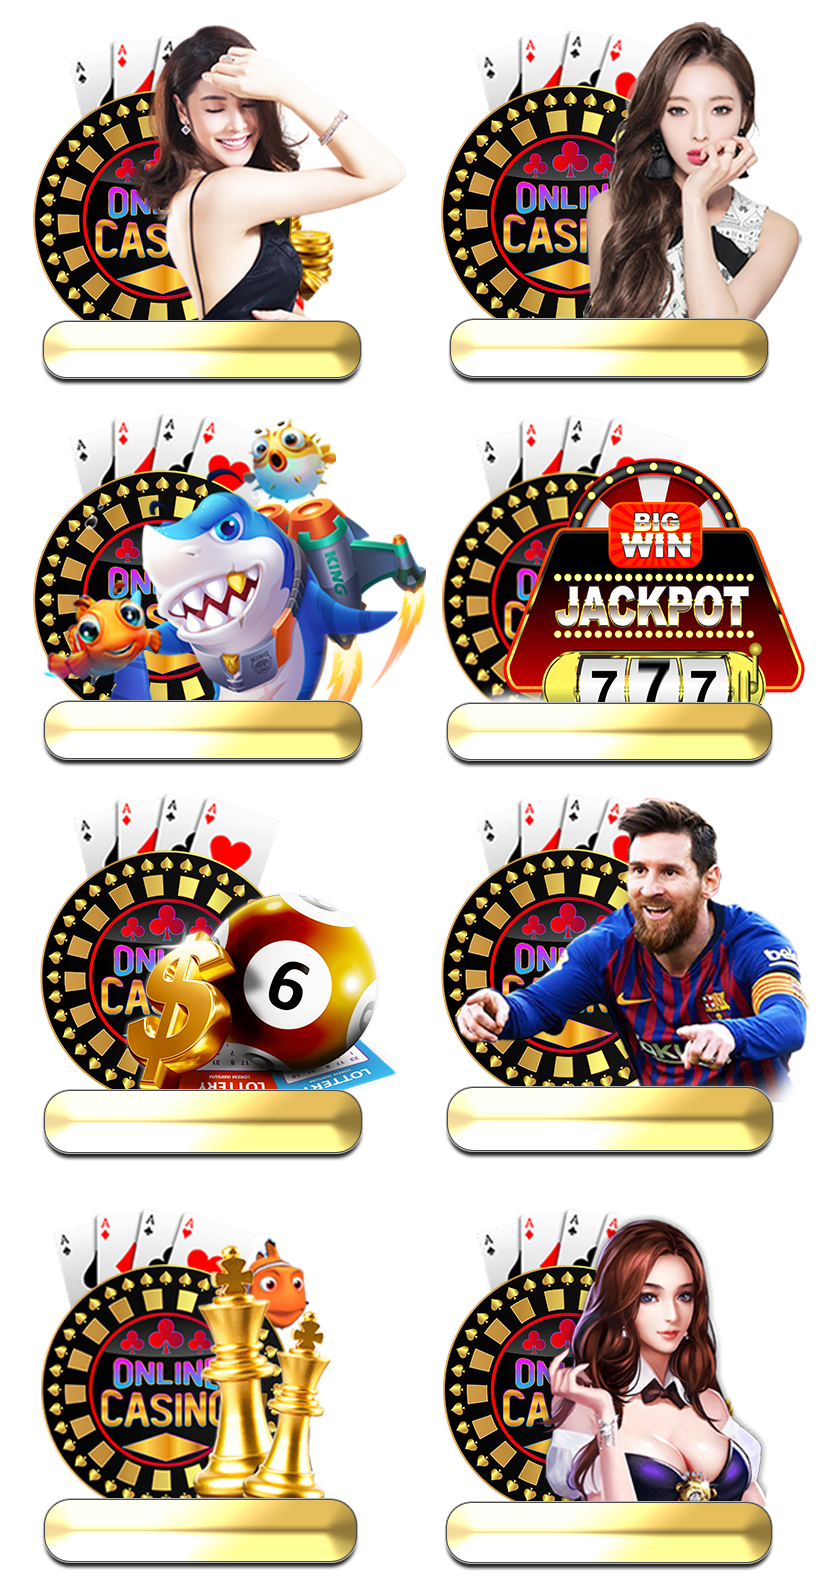
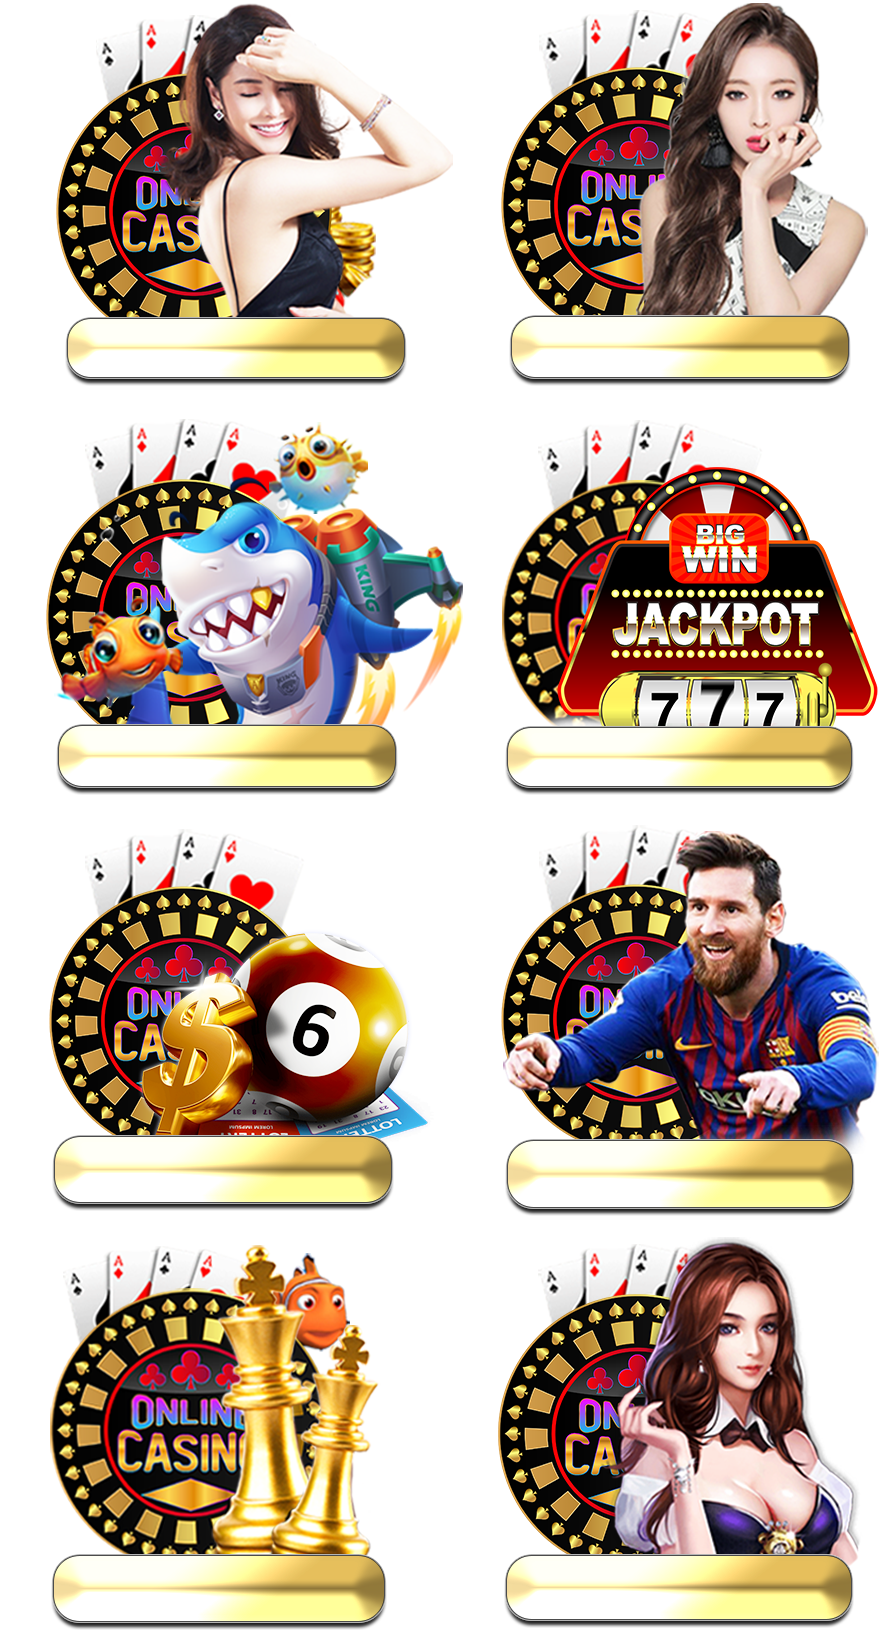
6

diff --git a/scss/main.scss b/scss/main.scss
@@ -263,19 +263,45 @@ html {
             }
 
             .right {
-                width: 70vw;
-                height: 120vw;
+                width: 72vw;
+                height: 102vw;
                 float: right;
-                background: #000;
                 overflow: scroll;
                 display: flex;
                 flex-wrap: wrap;
+                position: relative;
+
+                .right-img {
+                    width: 70vw;
+                    height: 134vw;
+                    background: url(../img/main.png) no-repeat;
+                    background-size: 100%;
+                    position: absolute;
+                    margin-left: 2vw;
+                }
 
                 .right-box {
                     width: 33vw;
-                    height: 38vw;
-                    background: #c66110;
+                    height: 31vw;
                     margin: 5px 0 0 5px;
+
+                    P {
+                        width: 33vw;
+                        height: 5vw;
+                        font-size: 3vw;
+                        color: #330077;
+                        font-weight: bold;
+                        text-align: center;
+                        line-height: 52vw;
+                        margin-left: 2vw;
+                        position: absolute;
+
+                        @media(max-width: 320px) {
+                            font-size: 3vw;
+                            transform: scale(0.8);
+                            line-height: 62vw;
+                        }
+                    }
                 }
             }
         }

diff --git a/index.html b/index.html
@@ -71,14 +71,31 @@
             </ul>
         </div>
         <div class="right">
-           <div class="right-box"></div>
-           <div class="right-box"></div>
-           <div class="right-box"></div>
-           <div class="right-box"></div>
-           <div class="right-box"></div>
-           <div class="right-box"></div>
-           <div class="right-box"></div>
-           <div class="right-box"></div>
+           <div class="right-img"></div>
+           <div class="right-box">
+               <P>BB真人娛樂</P>
+           </div>
+           <div class="right-box">
+            <P>AA真人娛樂</P>
+           </div>
+           <div class="right-box">
+            <P>BB捕魚機</P>
+           </div>
+           <div class="right-box">
+            <P>BB老虎機</P>
+           </div>
+           <div class="right-box">
+            <P>BBB彩票</P>
+           </div>
+           <div class="right-box">
+            <P>BBB體育</P>
+           </div>
+           <div class="right-box">
+            <P>BBB棋牌</P>
+           </div>
+           <div class="right-box">
+            <P>AAA棋牌</P>
+           </div>
         </div>
     </main>
     <div class="fixed-menu">

diff --git a/css/main.css b/css/main.css
@@ -239,22 +239,48 @@ html body main .left ul li .left-icon .lottery {
   background-size: contain;
 }
 html body main .right {
-  width: 70vw;
-  height: 120vw;
+  width: 72vw;
+  height: 102vw;
   float: right;
-  background: #000;
   overflow: scroll;
   display: -webkit-box;
   display: -ms-flexbox;
   display: flex;
   -ms-flex-wrap: wrap;
       flex-wrap: wrap;
+  position: relative;
+}
+html body main .right .right-img {
+  width: 70vw;
+  height: 134vw;
+  background: url(../img/main.png) no-repeat;
+  background-size: 100%;
+  position: absolute;
+  margin-left: 2vw;
 }
 html body main .right .right-box {
   width: 33vw;
-  height: 38vw;
-  background: #c66110;
+  height: 31vw;
   margin: 5px 0 0 5px;
+}
+html body main .right .right-box P {
+  width: 33vw;
+  height: 5vw;
+  font-size: 3vw;
+  color: #330077;
+  font-weight: bold;
+  text-align: center;
+  line-height: 52vw;
+  margin-left: 2vw;
+  position: absolute;
+}
+@media (max-width: 320px) {
+  html body main .right .right-box P {
+    font-size: 3vw;
+    -webkit-transform: scale(0.8);
+            transform: scale(0.8);
+    line-height: 62vw;
+  }
 }
 html body .fixed-menu {
   width: 100%;
